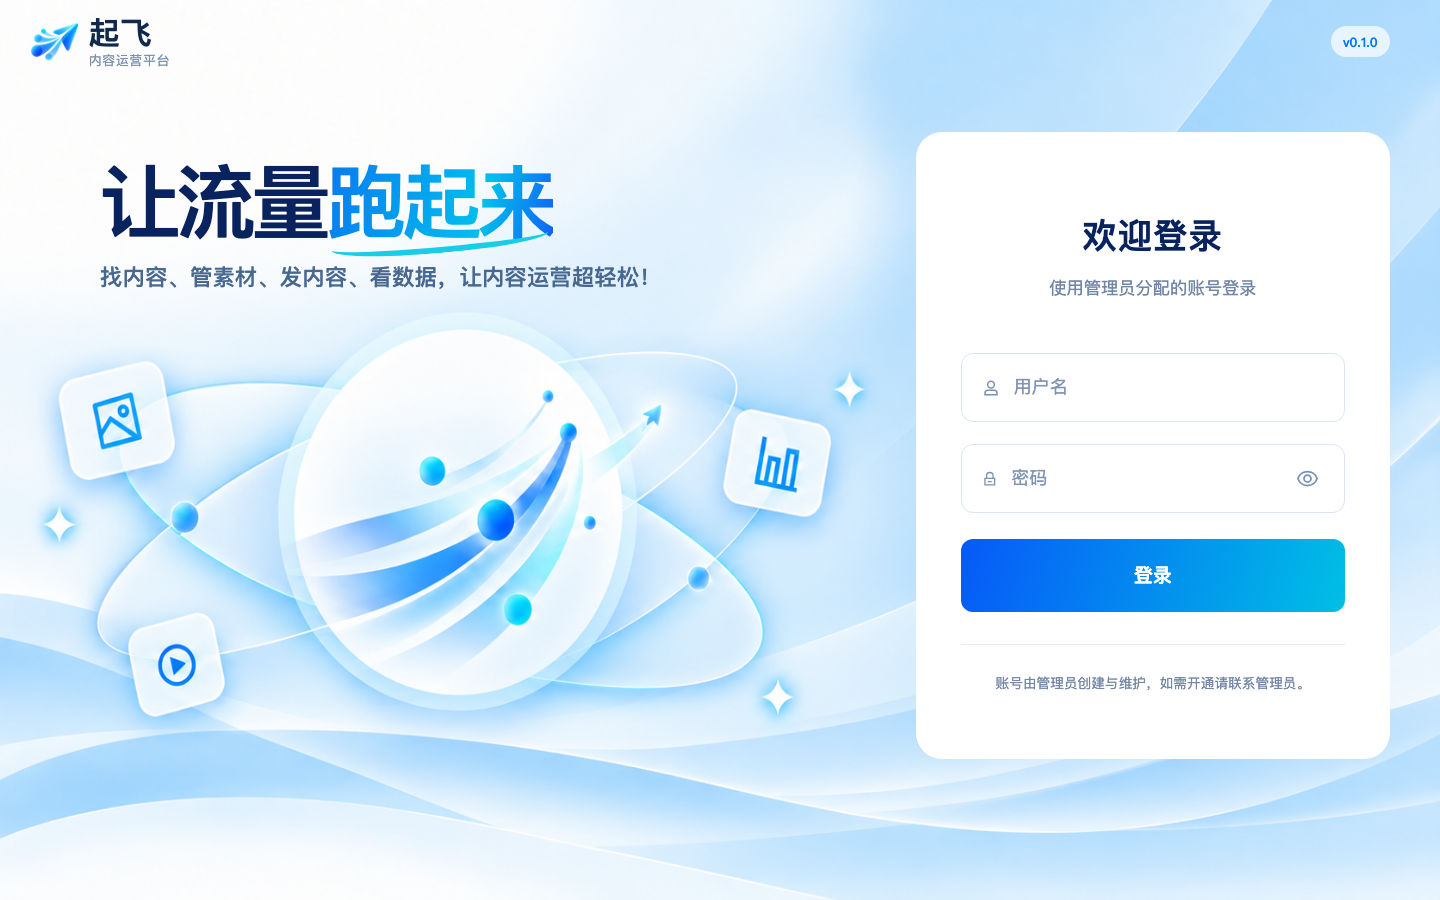
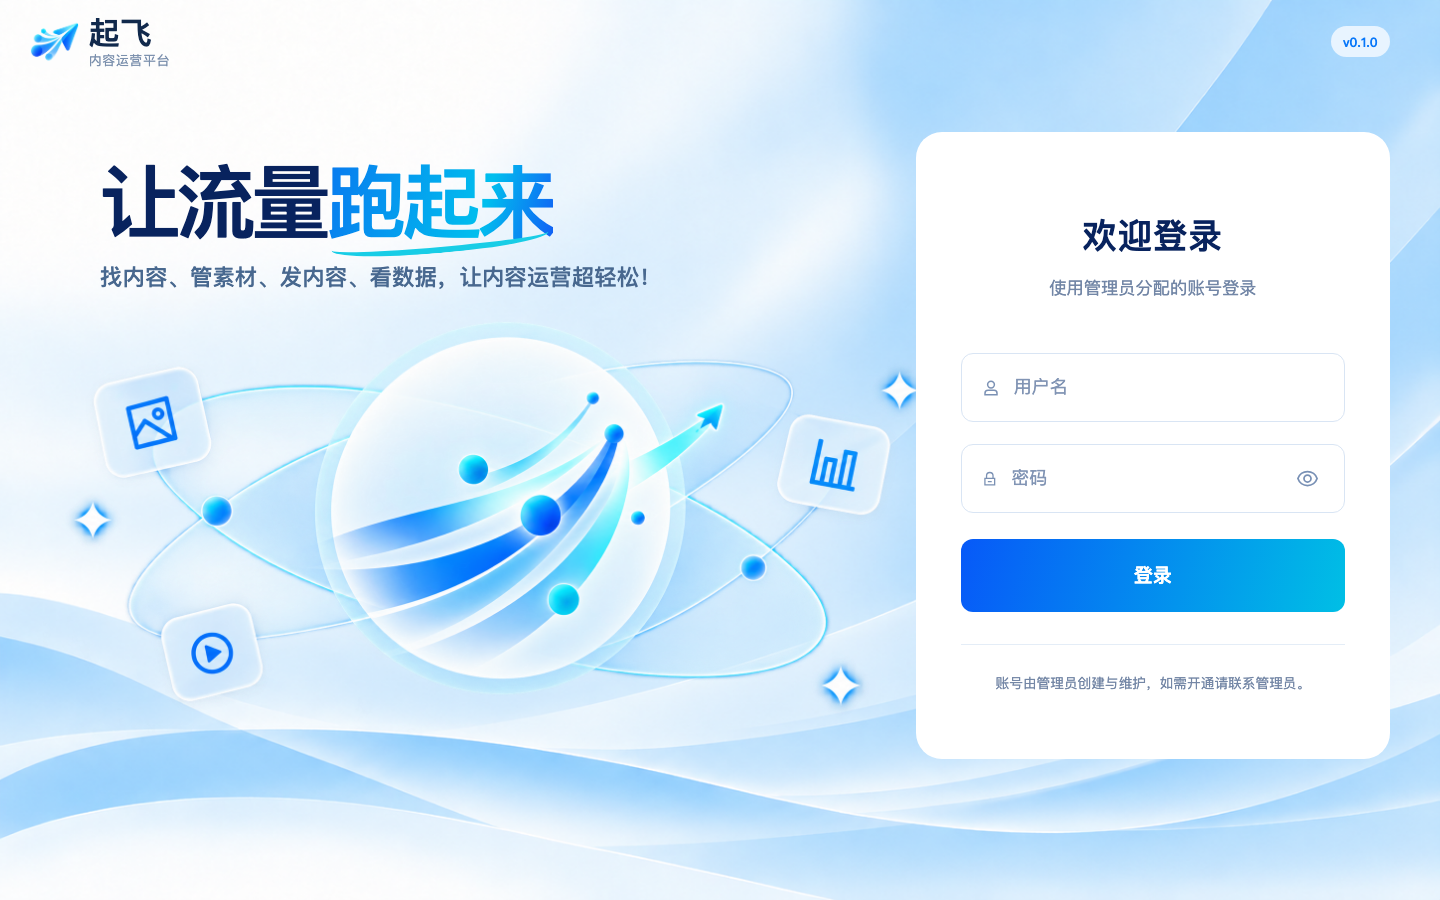
Update login visual evidence for layered illustration

Changed region(s): [[0.0312, 0.3422, 0.6562, 0.8089]]

diff --git a/delivery/active/CHG-20261010-078/status/cloud.md b/delivery/active/CHG-20261010-078/status/cloud.md
@@ -1,7 +1,7 @@
 # Cloud 状态
 
 - 分支：`codex/public-home-downloads`。
-- 已提交：`aedd398` 公开官网和下载清单；`a2c8f72` 共享登录视觉；`dcb3983` 按用户官网参考图校准视觉；`7c725c3` 首页文案与手机布局修正；`0ec44a4` 圆形徽章留白与手机登录文字校准；`26d85b1` 移除首页登录引导与遮挡图标的装饰星；`f935879` 悬浮导航、分区滚动和按钮箭头修正；`9718404` 按新设计图收敛官网单页；`db2c868` 按登录页新参考稿收敛中央轨迹与卡片视觉；`acf8649` 按用户走查意见改用视觉图重组桌面登录页；`e1d50a3` 修正登录页文字清晰度与按钮边缘。
+- 已提交：`aedd398` 公开官网和下载清单；`a2c8f72` 共享登录视觉；`dcb3983` 按用户官网参考图校准视觉；`7c725c3` 首页文案与手机布局修正；`0ec44a4` 圆形徽章留白与手机登录文字校准；`26d85b1` 移除首页登录引导与遮挡图标的装饰星；`f935879` 悬浮导航、分区滚动和按钮箭头修正；`9718404` 按新设计图收敛官网单页；`db2c868` 按登录页新参考稿收敛中央轨迹与卡片视觉；`acf8649` 按用户走查意见改用视觉图重组桌面登录页；`e1d50a3` 修正登录页文字清晰度与按钮边缘；`b2660ae` 拆分高像素插画图层。
 - 验证：官网按新设计图重构为单页，保留品牌与三平台真实下载。1440×900 浏览器中四项悬浮导航、Logo 返回顶部、Hero CTA、定价联系按钮和上下滚动活动态通过；三平台 URL 仍指向 v0.1.0 Release。1920/1440/1280/390/320 px 均无水平溢出。Cloud Web 构建和公开路由/下载清单 3 项测试通过，`git diff --check` 通过。仓库没有 typecheck/lint 脚本及可执行文件，两命令报 Missing script；真实鼠标滚轮输入和线上下载需部署环境验收。先前 Desktop Web 构建、Web 全量 490 项与 Go Cloud 静态服务聚焦测试仍有效。
-- 最新视觉修订：用户走查指出整页位图缩放使品牌文字和插画发糊，且登录按钮右缘有透明边框。现用无文字插画底图叠加实时 Logo、标题、说明与 Vue 表单，去掉按钮透明边框；手机端保持已有单列布局。1672/1920/1440/1024/800/390 px 浏览器、Cloud/Desktop 构建和 12 项登录相关测试见 `evidence/login-hd-visual-20261010.md`。本仓其他未提交改动未纳入本任务。
+- 最新视觉修订：用户走查指出整页位图缩放使品牌文字和插画发糊，且登录按钮右缘有透明边框。现将背景、高像素插画、实时 Logo、标题、说明与 Vue 表单拆层渲染，去掉按钮透明边框；手机端保持已有单列布局。1672/1920/1440/1024/800/390 px 浏览器、Cloud/Desktop 构建和 12 项登录相关测试见 `evidence/login-hd-visual-20261010.md`。本仓其他未提交改动未纳入本任务。
 - 待验收：新版本部署后 `/home`、真实账号登录、三平台安装包在目标用户网络的实际下载。

diff --git a/delivery/active/CHG-20261010-078/checkpoint.md b/delivery/active/CHG-20261010-078/checkpoint.md
@@ -1,7 +1,7 @@
 # CHG-20261010-078 Checkpoint
 
 - 已完成：Task 1 脚本与初始清单；Task 2 Cloud `/home` 与三平台按钮；Task 3 共享登录页及品牌视觉；Task 5 新设计稿单页收敛及宽窄屏截图、滚动交互本地验证。
-- 当前工作：首页按用户新视觉图收敛为 Header、Hero、产品、下载、定价、联系、Footer 单页；四项悬浮导航、Logo 返回顶部、Hero CTA 和定价联系按钮均可平滑滚动。登录页按视觉稿保留插画底图，Logo、标题、说明和表单由浏览器渲染，按钮右边缘已修正，手机保留单列。状态仍为 VERIFYING；等待新 Cloud Web 部署后的 `/home`、真实账号登录与目标用户网络三平台下载验收。
+- 当前工作：首页按用户新视觉图收敛为 Header、Hero、产品、下载、定价、联系、Footer 单页；四项悬浮导航、Logo 返回顶部、Hero CTA 和定价联系按钮均可平滑滚动。登录页把背景、高清插画与真实 Logo、标题、说明、表单拆层渲染，按钮右边缘已修正，手机保留单列。状态仍为 VERIFYING；等待新 Cloud Web 部署后的 `/home`、真实账号登录与目标用户网络三平台下载验收。
 - 下一步：部署后执行固定 Tag 清单更新命令，回读在线 JSON，逐个平台点击下载；收到结果后关闭 CHG。
 - 阻塞：无代码阻塞。在线部署和终端网络验收依赖目标环境人工执行。
 - 最近验证：登录页 1672/1920/1440/1024/800/390 px 浏览器无水平溢出；Cloud/Desktop 构建与登录相关 12 项测试通过，设计尺寸与宽窄屏截图留证于 `evidence/login-hd-visual-20261010.md`。先前错误提示与按钮、说明的无重叠检查仍有效。本仓未配置 typecheck/lint，两命令均报 Missing script。此前官网滚动和下载清单本地验证仍有效；线上部署、真实账号登录、终端网络下载仍待验收。

diff --git a/delivery/active/CHG-20261010-078/evidence/login-hd-visual-20261010.md b/delivery/active/CHG-20261010-078/evidence/login-hd-visual-20261010.md
@@ -2,7 +2,7 @@
 
 - 用户走查指出桌面登录按钮最右侧边缘不平整，且左侧 Logo、标题、说明和插画发糊。
 - 原因：桌面把包含所有文字的 1672×941 视觉稿按视口宽高拉伸为背景；登录按钮的 1px 透明边框会露出底色。
-- Cloud `e1d50a3`：以去掉原稿文字和表单的插画底图替换整页位图；Logo、品牌标题、说明均由浏览器实时渲染。按钮主样式去掉透明边框。登录业务脚本与手机布局未改。未采用单独生成的透明插画版本，因为其边缘和轨迹与原稿有可见差异。
+- Cloud `e1d50a3`：先以去掉原稿文字和表单的底图替换整页位图；Logo、品牌标题、说明均由浏览器实时渲染，按钮主样式去掉透明边框。Cloud `b2660ae`：再将插画拆成 1812×868 透明图层，底图仅保留背景与波浪。插画在各桌面宽度保持原始长宽比，不再随着整页底图变形。登录业务脚本与手机布局未改。
 - 截图：[1672 设计尺寸](screenshots/login-hd-1672.png)、[1920 宽屏](screenshots/login-hd-1920.png)、[1440 桌面](screenshots/login-hd-1440.png)、[390 手机](screenshots/login-hd-390.png)。另检查 1024、800 px 浏览器视口，均无水平溢出。
 - 验证：`npm run build:cloud`、`npm run build:desktop` 均成功；登录相关 Vitest 3 文件 12 项通过；`git diff --cached --check` 通过。构建仅有已有的 Vite 大 chunk 提示。
-- 待验收：部署环境用真实账号检查登录及会话替换。插画仍是带柔光效果的位图，在与 1672×941 相差较大的视口会缩放；文字和 Logo 已不随底图缩放。
+- 待验收：部署环境用真实账号检查登录及会话替换。插画保留参考稿的柔光风格；在非常大的屏幕上仍会按比例放大，文字和 Logo 不受位图缩放影响。
